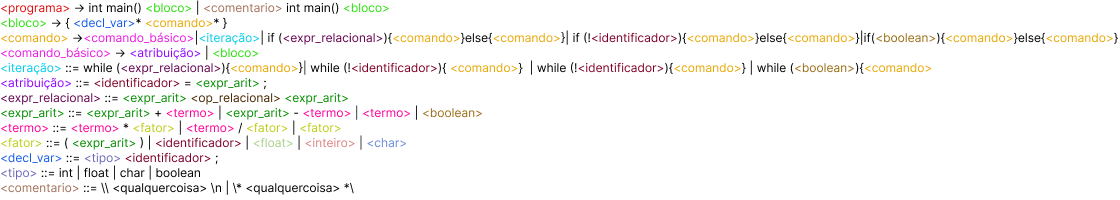
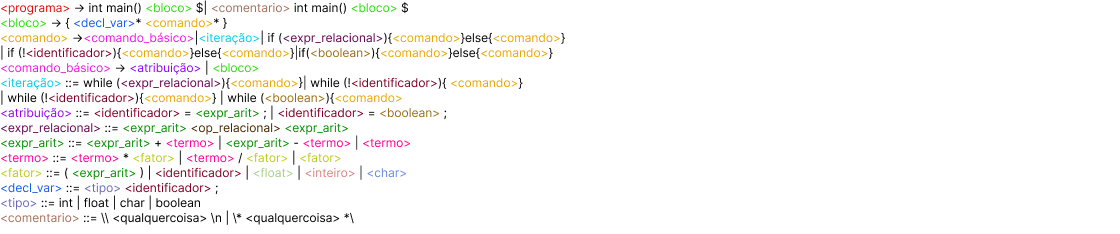
Implementing Semantic 0.1 and Fixing Parser

Changed region(s): [[0.0, 0.0, 1.0, 0.87], [0.0, 0.9, 0.3125, 0.96]]

diff --git a/Compilador/src/syntacticanalyzer/Parser.java b/Compilador/src/syntacticanalyzer/Parser.java
@@ -3,14 +3,20 @@ package syntacticanalyzer;
 import lexicalanalysis.Lexical;
 import lexicalanalysis.Token;
 import lexicalanalysis.Type;
+import semanticanalysis.Semantic;
+import semanticanalysis.SemanticException;
 
 public class Parser {
 	
 	private Lexical lexical;
 	private Token token;
+	private Semantic[] variableList;
+	private int semanticSize;
 	
 	public Parser(Lexical lexical) {
 		this.lexical = lexical;
+		this.variableList = new Semantic[999];
+		this.semanticSize = 0;
 	}
 
 	public void program() {
@@ -31,12 +37,12 @@ public class Parser {
 
 		token = lexical.nextToken();
 		if (!token.getContent().equals("(")) {
-			throw new ParserException("Abre o parêntese do main direito boy!");
+			throw new SemanticException("Abre o parêntese do main direito boy!");
 		}
 
 		token = lexical.nextToken();
 		if (!token.getContent().equals(")")) {
-			throw new ParserException("Feche o parêntese do main direito boy!");
+			throw new SemanticException("Feche o parêntese do main direito boy!");
 		}
 
 		this.token = this.lexical.nextToken();
@@ -52,7 +58,7 @@ public class Parser {
 
 	private void block() {
 		if (!token.getContent().equals("{")) {
-			throw new ParserException("Abre a chave, tabacudo!");
+			throw new SemanticException("Abre a chave, tabacudo!");
 		}
 
 		this.token = this.lexical.nextToken();
@@ -68,7 +74,7 @@ public class Parser {
 		
 
 		if (!token.getContent().equals("}")) {
-			throw new ParserException("Fecha a chave, tabacudo!");
+			throw new SemanticException("Fecha a chave, tabacudo!");
 		}
 	}
 
@@ -80,7 +86,7 @@ public class Parser {
 		}else if (this.token.getContent().equals("if")) {
 			this.token = this.lexical.nextToken();
 		    if (!token.getContent().equals("(")) {
-			throw new ParserException("Abre o parêntese do if direito boy!");
+			throw new SemanticException("Abre o parêntese do if direito boy!");
 		    }
 
 			this.token = this.lexical.nextToken();
@@ -92,17 +98,20 @@ public class Parser {
 			this.token = this.lexical.nextToken();
 		    }else if(token.getType() == Type.BOOLEAN){
 				this.token = this.lexical.nextToken();
+				if (!token.getContent().equals(")")) {
+					throw new SemanticException("Depois de um booleano tem que fechar o parêntese!");
+				}
 			}else{
 				this.relationalExpression();
 			}
 
 		    if (!token.getContent().equals(")")) {
-			throw new ParserException("Fecha o parêntese do if direito boy!");
-		    }
+				throw new SemanticException("Fecha o parêntese do if direito boy!");
+			}
 
 			this.token = this.lexical.nextToken();
 			if (!this.token.getContent().equals("{")) {
-				throw new ParserException("O { do if tabacudo!");
+				throw new SemanticException("O { do if tabacudo!");
 			}
 
 			this.token = this.lexical.nextToken();
@@ -110,7 +119,7 @@ public class Parser {
 
 			this.token = this.lexical.nextToken();
 			if (!this.token.getContent().equals("}")) {
-				throw new ParserException("O } do if tabacudo!");
+				throw new SemanticException("O } do if tabacudo!");
 			}
 
 			this.token = this.lexical.nextToken();
@@ -120,7 +129,7 @@ public class Parser {
 
 			this.token = this.lexical.nextToken();
 			if (!this.token.getContent().equals("{")) {
-				throw new ParserException("O { do else tabacudo!");
+				throw new SemanticException("O { do else tabacudo!");
 			}
 
 			this.token = this.lexical.nextToken();
@@ -128,7 +137,7 @@ public class Parser {
 
 			this.token = this.lexical.nextToken();
 			if (!this.token.getContent().equals("}")) {
-				throw new ParserException("O } do else tabacudo!");
+				throw new SemanticException("O } do else tabacudo!");
 			}
 		}else{
 			throw new ParserException("Que comando é esse boy?");
@@ -143,7 +152,7 @@ public class Parser {
 
 		this.token = this.lexical.nextToken();
 		if (!token.getContent().equals("(")) {
-			throw new ParserException("Abre o parêntese do while direito boy!");
+			throw new SemanticException("Abre o parêntese do while direito boy!");
 		}
 
 		this.token = this.lexical.nextToken();
@@ -155,17 +164,20 @@ public class Parser {
 			this.token = this.lexical.nextToken();
 		}else if(token.getType() == Type.BOOLEAN){
 			this.token = this.lexical.nextToken();
+			if (!token.getContent().equals(")")) {
+				throw new SemanticException("Depois de um booleano tem que fechar o parêntese!");
+			}
 		}else{
 			this.relationalExpression();
 		}
 
 		if (!token.getContent().equals(")")) {
-			throw new ParserException("Fecha o parêntese do while direito boy!");
+			throw new SemanticException("Fecha o parêntese do while direito boy!");
 		}
 
 		this.token = this.lexical.nextToken();
 			if (!this.token.getContent().equals("{")) {
-				throw new ParserException("O { do while tabacudo!");
+				throw new SemanticException("O { do while tabacudo!");
 		}
 
 		this.token = this.lexical.nextToken();
@@ -173,7 +185,7 @@ public class Parser {
 
 		this.token = this.lexical.nextToken();
 			if (!this.token.getContent().equals("}")) {
-				throw new ParserException("O } do while tabacudo!");
+				throw new SemanticException("O } do while tabacudo!");
 		}
 	}
 
@@ -202,25 +214,33 @@ public class Parser {
 		if (token.getType() != Type.IDENTIFIER) {
 			throw new ParserException("A declaração de variável tá errada!");
 		}
+		Semantic aux = Semantic.exists(variableList, token.getContent());
+		if(aux == null){
+			throw new SemanticException("A variavel não existe tabacudo!");
+		}
+
 		this.token = this.lexical.nextToken();
 		if (!token.getContent().equals("=")) {
 			throw new ParserException("Tá faltando um \"=\" boy!");
 		}
 
 		this.token = this.lexical.nextToken();
-		this.arithmeticExpression();
-
-
-		if (!token.getContent().equals(";")) {
-			throw new ParserException("Faltou o ; da atribuição, donzelo!");
-		}
+		String auxTokenName = token.getContent();
+		if (aux.getType().equals("boolean") || aux.getType().equals("char")) {
+			Semantic.verifyAllocation(aux, token);
+			this.token = this.lexical.nextToken();
+			if (!token.getContent().equals(";")) {
+				throw new ParserException("Depois de um \"" + auxTokenName + "\" tem que ter o ponto e virgula!");
+			}
+		}else{
+			this.arithmeticExpression();
+			if (!token.getContent().equals(";")) {
+				throw new ParserException("Faltou o ; da atribuição, donzelo!");
+			}
+		}		
 	}
 
 	private void arithmeticExpression() {
-		if (this.token.getType() == Type.BOOLEAN) {
-			this.token = this.lexical.nextToken();
-			return;
-		}
 		this.term();
 		if(token.getContent().equals("+") || token.getContent().equals("-")){
 			this.token = this.lexical.nextToken();
@@ -245,9 +265,14 @@ public class Parser {
 		    this.arithmeticExpression();
 
 		    if (!token.getContent().equals(")")) {
-			throw new ParserException("Feche o parêntese direito boy!");
+			throw new SemanticException("Feche o parêntese direito boy!");
 		    }
-		} else if (this.token.getType() != Type.IDENTIFIER && this.token.getType() != Type.FLOAT
+		} else if (this.token.getType() == Type.IDENTIFIER) {
+			Semantic aux = Semantic.exists(variableList, token.getContent());
+		    if(aux == null){
+				throw new SemanticException("A variavel não existe tabacudo!");
+		    } 
+		}else if (this.token.getType() != Type.IDENTIFIER && this.token.getType() != Type.FLOAT
 		&& this.token.getType() != Type.INT && this.token.getType() != Type.CHAR) {
 			throw new ParserException("Escreve a funcao aritimetica certo!");
 		}
@@ -256,12 +281,17 @@ public class Parser {
 
 	private void variableDeclaration() {
 		this.type();
-
+		Token auxToken = token;
 		this.token = this.lexical.nextToken();
 		if (token.getType() != Type.IDENTIFIER) {
 			throw new ParserException("A declaração de variável tá errada!");
 		}
-
+		Semantic aux = Semantic.exists(variableList, token.getContent());
+		if(aux != null){
+			throw new SemanticException("E tu quer ter 2 variaveis iguais é bonitinho!");
+		}
+		variableList[semanticSize] = new Semantic(auxToken.getContent(), token.getContent());
+		semanticSize++;
 		this.token = this.lexical.nextToken();
 		if (!token.getContent().equals(";")) {
 			throw new ParserException("Faltou o ; da variável, donzelo!");

diff --git a/Compilador/src/semanticanalysis/Semantic.java b/Compilador/src/semanticanalysis/Semantic.java
@@ -1,0 +1,54 @@
+package semanticanalysis;
+
+import lexicalanalysis.Token;
+import lexicalanalysis.Type;
+
+public class Semantic {
+    
+    private String type;
+    private String content;
+    private int quantity;
+
+    public Semantic(String type, String content){
+        this.type = type;
+        this.content = content;
+        quantity = 1;
+    }
+
+    public String getType() {
+        return type;
+    }
+
+    public String getContent() {
+        return content;
+    }
+
+    public void increase(){
+        this.quantity++;
+    }
+
+    public static void verifyAllocation(Semantic semantic, Token token){
+        if(semantic.getType().equals("char")){
+            if (token.getType() != Type.CHAR) {
+                throw new SemanticException("Meu irmão á variavel \""+ semantic.getContent() +"\" é do tipo char!");
+            }
+        }else if(semantic.getType().equals("boolean")){
+            if (token.getType() != Type.BOOLEAN) {
+                throw new SemanticException("Meu irmão á variavel \""+ semantic.getContent() +"\" é do tipo boolean!");
+            }
+        }
+    }
+
+    public static Semantic exists(Semantic[] list, String variable){
+        int i = 0;
+            while(i < 1000){
+                if (list[i] == null)
+                return null;
+                if(list[i].getContent().compareTo(variable) == 0){
+                    return list[i];
+                }
+                i++;
+            }
+        return null;
+    }
+}

diff --git a/Compilador/src/semanticanalysis/SemanticException.java b/Compilador/src/semanticanalysis/SemanticException.java
@@ -1,0 +1,8 @@
+package semanticanalysis;
+
+public class SemanticException extends RuntimeException{
+    
+    public SemanticException(String msg){
+        super(msg);
+    }
+}
